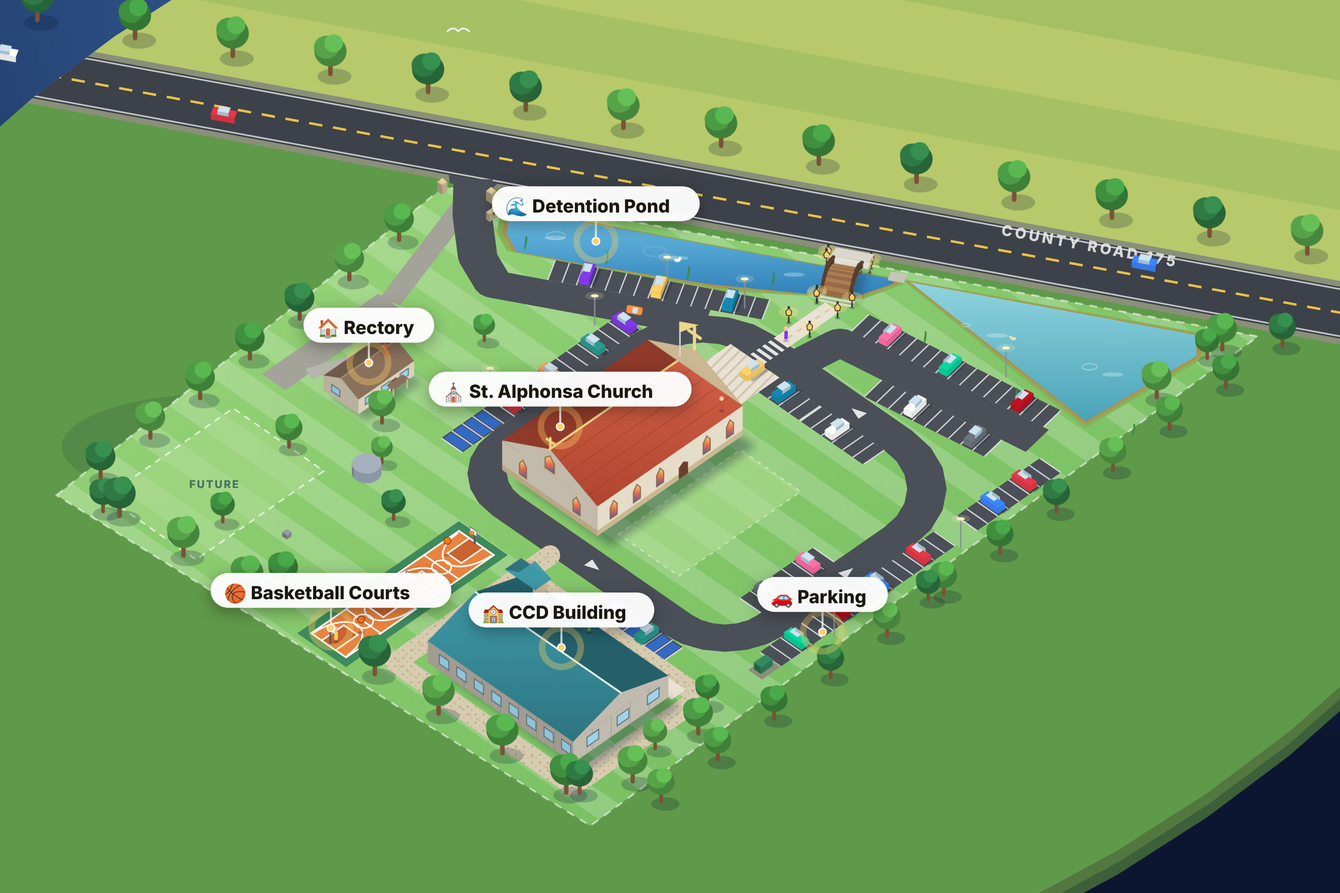
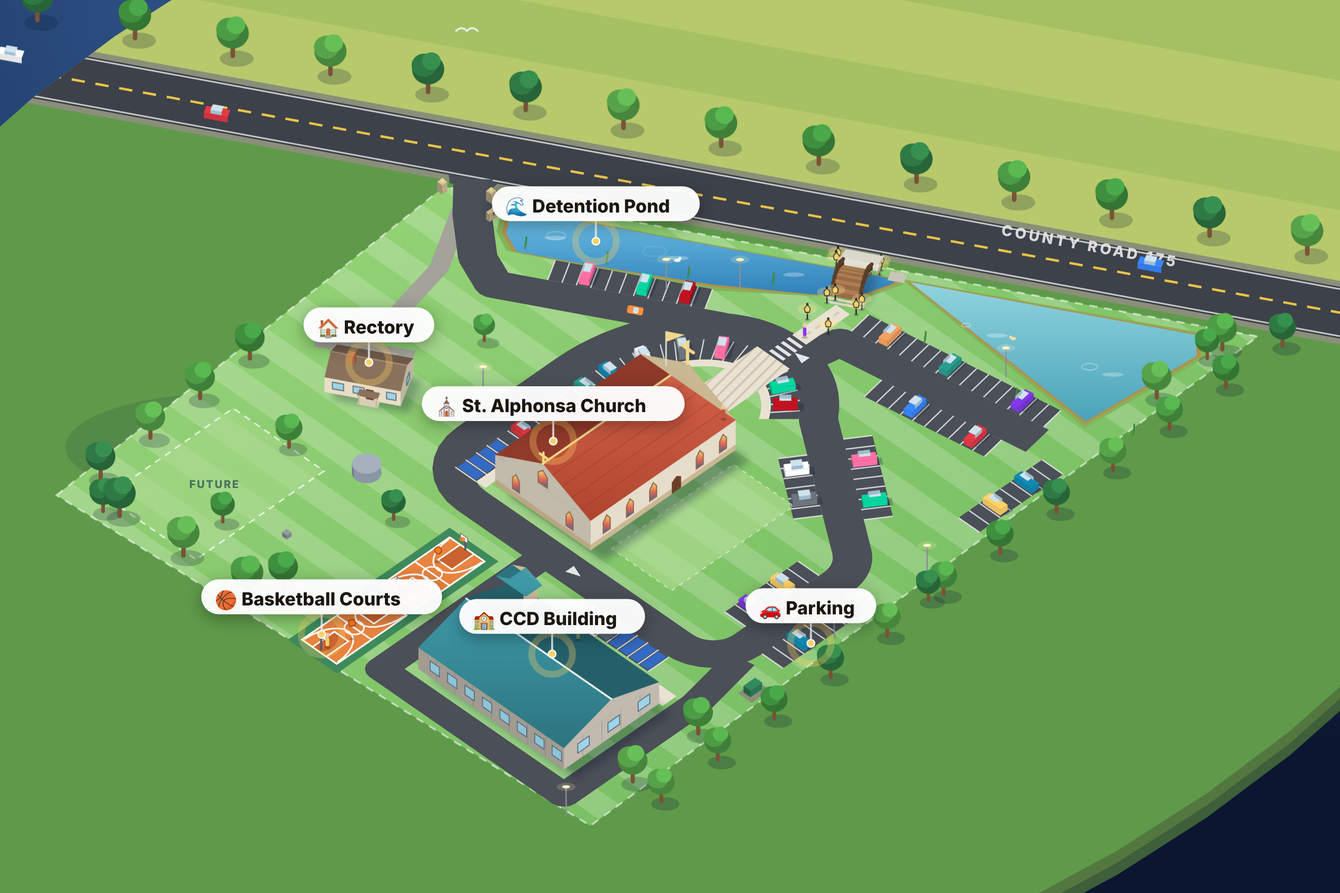
Match the loop, rectory and CCD drive to the site plan
- Loop drive ends in a half-ellipse in front of the church with radial stalls and a sidewalk ring
- Diagonal leg back to the south-east corner with stalls inside and outside
- Rectory turned parallel to County Road 175, with the existing drive and turnaround
- Paved loop round the CCD building that ties back into the church loop (no gravel)

Claude-Session: https://claude.ai/code/session_01ETi8ScE64g863fdLpxkmu7

diff --git a/church-website/assets/js/iso-map.js b/church-website/assets/js/iso-map.js
@@ -27,49 +27,61 @@ window.IsoMap = (function () {
   const off = (p, k) => [p[0] + n[0] * k, p[1] + n[1] * k];
   const along = (p, k) => [p[0] + d[0] * k, p[1] + d[1] * k];
   const tk = (t, k) => off(r(t), k);
+  const add2 = (p, q) => [p[0] + q[0], p[1] + q[1]];
   const kOf = p => (p[0] - SITE.N[0]) * n[0] + (p[1] - SITE.N[1]) * n[1];
   const tOf = p => ((p[0] - SITE.N[0]) * d[0] + (p[1] - SITE.N[1]) * d[1]) / RL;
 
-  const cc = M(624, 579);
+  const cc = add2(M(624, 579), [-12, 6]);
   const CHURCH = { x0: cc[0] - 62.5, y0: cc[1] - 41, x1: cc[0] + 62.5, y1: cc[1] + 41, h: 22, rh: 18 };          // 125 x 82, front faces the road
-  const cd = M(387, 852);
+  const cd = add2(M(387, 852), [-8, 0]);
   const CCD = { x0: cd[0] - 41, y0: cd[1] - 62.5, x1: cd[0] + 41, y1: cd[1] + 62.5, h: 16, rh: 12 };             // 82 x 125, at right angles to the church
-  const c1 = M(257, 684), c2 = M(367, 638), cyc = (c1[1] + c2[1]) / 2;
+  const c1 = add2(M(257, 684), [-8, 0]), c2 = add2(M(367, 638), [-8, 0]), cyc = (c1[1] + c2[1]) / 2;
   const COURTS = [{ x0: c1[0] - 30, y0: cyc - 15, x1: c1[0] + 30, y1: cyc + 15 }, { x0: c2[0] - 30, y0: cyc - 15, x1: c2[0] + 30, y1: cyc + 15 }];
-  const rc = M(435, 355);
-  const RECTORY = { x0: rc[0] - 24, y0: rc[1] - 15, x1: rc[0] + 24, y1: rc[1] + 15, h: 11, rh: 7 };            // existing residence, near the north boundary
-  const hh = M(430, 280);
-  const HAMMERHEAD = { x0: hh[0] - 50, y0: hh[1] - 10, x1: hh[0] + 50, y1: hh[1] + 10 };                        // existing paved drive / fire truck turnaround
-  const LOOP = { x0: 207, y0: 190, x1: 416, y1: 418, w: 24, r: [50, 60, 40, 40] };   // loop drive centreline bounds; corner radii NE, SE, SW, NW (rounded east end as drawn)
+  // Existing residence (the rectory): long axis parallel to County Road 175, reached by the existing drive and its turnaround
+  const RECTORY = { c: tk(0, 178), u: d, hl: 24, hw: 15, h: 11, rh: 7 };
+  RECTORY.x0 = RECTORY.c[0] - 30; RECTORY.x1 = RECTORY.c[0] + 30; RECTORY.y0 = RECTORY.c[1] - 30; RECTORY.y1 = RECTORY.c[1] + 30;
+  const EX_DRIVE = [tk(.03, 12), tk(.03, 70), tk(-.02, 150)];
+  const HAMMER = [tk(-.08, 150), tk(.04, 150)];                                                             // fire truck turnaround by the house
+  // Loop drive: straight west, top and bottom legs, a half-ellipse around the front of the church, and a diagonal leg back to the south-east corner
+  const LOOP = { x0: 195, y0: 172, y1: 420, xc: 320, yc: 253, rx: 106, ry: 81, aEnd: 45 * Math.PI / 180, se: [318, 420], w: 24 };
+  LOOP.x1 = LOOP.xc + LOOP.rx;
   const HW = LOOP.w / 2;
   const STALL = 9, DEPTH = 18;
   const unit = v => { const L = Math.hypot(v[0], v[1]); return [v[0] / L, v[1] / L]; };
+  const add = (p, v, k) => [p[0] + v[0] * k, p[1] + v[1] * k];
+  const LOOP_CL = (() => {
+    const vs = [{ p: [LOOP.x0, LOOP.y0], r: 40 }];
+    const arc = ellipseArc(LOOP.xc, LOOP.yc, LOOP.rx, LOOP.ry, -Math.PI / 2, LOOP.aEnd, 30);
+    arc.forEach((q, i) => vs.push({ p: q, r: i === arc.length - 1 ? 30 : 0 }));
+    vs.push({ p: LOOP.se, r: 30 }); vs.push({ p: [LOOP.x0, LOOP.y1], r: 30 });
+    return fillet(vs, 8);
+  })();
+  const DG = (() => { const a = [LOOP.xc + Math.cos(LOOP.aEnd) * LOOP.rx, LOOP.yc + Math.sin(LOOP.aEnd) * LOOP.ry]; const u = unit([LOOP.se[0] - a[0], LOOP.se[1] - a[1]]); return { a, u, nin: [-u[1], u[0]] }; })();
   const EA = { o: [452, 272], u: unit([0.16, 0.987]), len: 148 };                        // east aisle from the loop down to the south-east field
   const EAp = [-EA.u[1], EA.u[0]];                                                        // its normal (points west)
-  const add = (p, v, k) => [p[0] + v[0] * k, p[1] + v[1] * k];
   // Parking rows as drawn: o = start of the row on the aisle edge, u = direction along the row, side = which way the stalls extend (+1 = left of u, -1 = right of u)
   const ROWS = [
-    { o: [221, LOOP.y0 - HW], u: [1, 0], side: -1, n: 17, ada: [0, 1, 2, 3] },        // top row along the church (4 ADA + regular; 19 regular in the plan)
-    { o: [LOOP.x1 - HW, 240], u: [0, 1], side: 1, n: 7, ada: [] },                     // 7 inside the rounded east end
-    { o: [LOOP.x1 - HW, 304], u: [0, 1], side: 1, n: 6, ada: [] },                     // 6 inside the east leg
-    { o: [250, LOOP.y1 - HW], u: [1, 0], side: -1, n: 7, ada: [] },                    // 7 inside the south leg
+    { o: [209, LOOP.y0 + HW], u: [1, 0], side: 1, n: 12, ada: [0, 1, 2, 3] },          // top row facing the church (4 ADA + regular; continues round the curve)
+    { o: [235, LOOP.y1 - HW], u: [1, 0], side: -1, n: 7, ada: [] },                    // 7 inside the south leg
     { o: [225, LOOP.y1 + HW], u: [1, 0], side: 1, n: 8, ada: [] },                     // 8 outside the south leg
-    { o: [303, LOOP.y1 + HW], u: [1, 0], side: 1, n: 8, ada: [] },                     // 8 outside the south leg
     { o: [LOOP.x0 - HW, 331], u: [0, 1], side: 1, n: 7, ada: [0, 1, 2, 3, 4, 5, 6] },  // 7 ADA by the CCD
-    { o: tk(.16, 63), u: d, side: -1, n: 15, ada: [] },                                // along the pond (16 in the plan)
+    { o: tk(.16, 63), u: d, side: -1, n: 11, ada: [] },                                // along the pond (16 in the plan)
     { o: add(add(EA.o, EA.u, 40), EAp, 12), u: EA.u, side: 1, n: 10, ada: [] },        // 10 between the loop and the east aisle
     { o: add(EA.o, EAp, -12), u: EA.u, side: -1, n: 16, ada: [] },                     // 16 along the east aisle, by the basin
-    { o: [394, LOOP.y1 + HW], u: [1, 0], side: 1, n: 8, ada: [] }                      // 9 at the south-east boundary
+    { o: [394, LOOP.y1 + HW], u: [1, 0], side: 1, n: 8, ada: [] },                     // 9 at the south-east boundary
+    { o: add(add(DG.a, DG.u, 30), DG.nin, HW), u: DG.u, side: 1, n: 6, ada: [] },      // 6 inside the diagonal leg
+    { o: add(add(DG.a, DG.u, 20), DG.nin, -HW), u: DG.u, side: -1, n: 8, ada: [] }     // 8 outside the diagonal leg
   ];
   ROWS.forEach(rw => { rw.u = unit(rw.u); rw.v = rw.side > 0 ? [-rw.u[1], rw.u[0]] : [rw.u[1], -rw.u[0]]; });
-  const ENTRY_DRIVE = [tk(.03, -11), tk(.045, 20), tk(.07, 55), tk(.1, 75), tk(.36, 75)];                                  // gate at the north corner, along the pond, into the loop's rounded end
+  const ARC_STALLS = [[-90, -12], [12, 45]];                                              // degree ranges of radial stalls round the curve (gap = entry plaza)
+  const ENTRY_DRIVE = [tk(.03, -11), tk(.045, 20), tk(.07, 55), tk(.1, 75), tk(.38, 75)];                                  // gate at the north corner, along the pond, into the loop's curve
   const EAST_AISLE = [[LOOP.x1 - 4, 266], EA.o, add(EA.o, EA.u, EA.len)];                                                   // aisle to the south-east field
+  const CCD_LOOP = [[LOOP.x0 - HW + 2, CCD.y0 - 16], [CCD.x0 - 16, CCD.y0 - 16], [CCD.x0 - 16, CCD.y1 + 16], [CCD.x1 + 16, CCD.y1 + 16], [LOOP.x0 + 18, LOOP.y1 + 6]];   // paved loop round the CCD, back into the church loop
   const POND = [tk(.085, 8), tk(.56, 8), tk(.56, 12), tk(.52, 30), tk(.47, 34), tk(.35, 42), tk(.2, 44), tk(.11, 44), tk(.09, 30)];
   const BASIN = [tk(.575, 8), tk(.93, 8), tk(.94, 26), tk(.84, 100)];                                                        // filtration basin for water quality
-  const PED = { t: 0.5, w: 9 };                                                                                             // walkers' entrance at the centre of the frontage, on the church axis
+  const PED = { t: 0.512, w: 9 };                                                                                           // walkers' entrance at the centre of the frontage, on the church axis
   const SEPTIC = [[CHURCH.x0 + 10, CHURCH.y1 + 8], [CHURCH.x1 - 10, CHURCH.y1 + 8], [CHURCH.x1 - 10, CHURCH.y1 + 60], [CHURCH.x0 + 10, CHURCH.y1 + 60]];
   const FUTURE = [[40, 52], [150, 52], [150, 130], [40, 130]];                                                                // reserved for future construction (to confirm)
-  const GRAVEL = [[CCD.x1 + 14, CCD.y0 - 14], [CCD.x0 - 14, CCD.y0 - 14], [CCD.x0 - 14, CCD.y1 + 14], [CCD.x1 + 14, CCD.y1 + 14], [CCD.x1 + 14, CCD.y0 - 14], [LOOP.x0 - HW, CCD.y0 - 14]];
   const WELL = M(245, 523), TANK = M(367, 477);
 
   /* ---------------- helpers ---------------- */
@@ -80,6 +92,46 @@ window.IsoMap = (function () {
     const corners = [[x1 - R[0], y0 + R[0], -Math.PI / 2, 0, R[0]], [x1 - R[1], y1 - R[1], 0, Math.PI / 2, R[1]], [x0 + R[2], y1 - R[2], Math.PI / 2, Math.PI, R[2]], [x0 + R[3], y0 + R[3], Math.PI, Math.PI * 1.5, R[3]]];
     corners.forEach(([cx, cy, a0, a1, rr]) => { for (let i = 0; i <= seg; i++) { const a = a0 + (a1 - a0) * i / seg; out.push([cx + Math.cos(a) * rr, cy + Math.sin(a) * rr]); } });
     return out;
+  }
+  function ellipseArc(cx, cy, rx, ry, a0, a1, seg) { const out = []; for (let i = 0; i <= seg; i++) { const a = a0 + (a1 - a0) * i / seg; out.push([cx + Math.cos(a) * rx, cy + Math.sin(a) * ry]); } return out; }
+  // Round the corners of a closed polyline: verts = [{p, r}], r = 0 keeps the vertex sharp
+  function fillet(verts, seg) {
+    const out = [], n = verts.length;
+    for (let i = 0; i < n; i++) {
+      const A = verts[(i - 1 + n) % n].p, B = verts[i].p, C = verts[(i + 1) % n].p, r = verts[i].r;
+      if (!r) { out.push(B); continue; }
+      const d1 = unit([B[0] - A[0], B[1] - A[1]]), d2 = unit([C[0] - B[0], C[1] - B[1]]);
+      const theta = Math.acos(Math.max(-1, Math.min(1, d1[0] * d2[0] + d1[1] * d2[1])));
+      if (theta < 0.02) { out.push(B); continue; }
+      const t = r * Math.tan(theta / 2), p1 = [B[0] - d1[0] * t, B[1] - d1[1] * t], p2 = [B[0] + d2[0] * t, B[1] + d2[1] * t];
+      const cross = d1[0] * d2[1] - d1[1] * d2[0], nrm = cross > 0 ? [-d1[1], d1[0]] : [d1[1], -d1[0]];
+      const c = [p1[0] + nrm[0] * r, p1[1] + nrm[1] * r];
+      const a0 = Math.atan2(p1[1] - c[1], p1[0] - c[0]), a1 = Math.atan2(p2[1] - c[1], p2[0] - c[0]);
+      let da = a1 - a0; while (da > Math.PI) da -= 2 * Math.PI; while (da < -Math.PI) da += 2 * Math.PI;
+      for (let k = 0; k <= seg; k++) { const a = a0 + da * k / seg; out.push([c[0] + Math.cos(a) * r, c[1] + Math.sin(a) * r]); }
+    }
+    return out;
+  }
+  // Offset a closed polygon (clockwise on screen) inward by k (negative = outward)
+  function offsetPoly(poly, k) {
+    const n = poly.length, out = [];
+    for (let i = 0; i < n; i++) {
+      const A = poly[(i - 1 + n) % n], B = poly[i], C = poly[(i + 1) % n];
+      const d1 = unit([B[0] - A[0], B[1] - A[1]]), d2 = unit([C[0] - B[0], C[1] - B[1]]);
+      const n1 = [-d1[1], d1[0]], n2 = [-d2[1], d2[0]];
+      let m = [n1[0] + n2[0], n1[1] + n2[1]]; const L = Math.hypot(m[0], m[1]) || 1; m = [m[0] / L, m[1] / L];
+      const sc = k / Math.max(0.5, m[0] * n1[0] + m[1] * n1[1]);
+      out.push([B[0] + m[0] * sc, B[1] + m[1] * sc]);
+    }
+    return out;
+  }
+  // A box in any orientation: u = its long axis; draws the faces that look toward the camera, then the top
+  function rotBox(g, cx, cy, u, hl, hw, z0, h, col) {
+    const v = [-u[1], u[0]], q = (a, b, z) => [cx + u[0] * a + v[0] * b, cy + u[1] * a + v[1] * b, z];
+    [[q(-hl, -hw, z0), q(hl, -hw, z0), [-v[0], -v[1]]], [q(hl, -hw, z0), q(hl, hw, z0), u], [q(hl, hw, z0), q(-hl, hw, z0), v], [q(-hl, hw, z0), q(-hl, -hw, z0), [-u[0], -u[1]]]].forEach(([a, b, nrm]) => {
+      const f = -nrm[0] + nrm[1]; if (f <= 0.05) return; poly(g, [a, b, [b[0], b[1], z0 + h], [a[0], a[1], z0 + h]], { fill: shade(col, .72 + .2 * f) });
+    });
+    poly(g, [q(-hl, -hw, z0 + h), q(hl, -hw, z0 + h), q(hl, hw, z0 + h), q(-hl, hw, z0 + h)], { fill: shade(col, 1.08) });
   }
   function ellipsePts(cx, cy, rx, ry, seg, z) { const out = []; for (let i = 0; i < (seg || 24); i++) { const a = i / (seg || 24) * Math.PI * 2; out.push([cx + Math.cos(a) * rx, cy + Math.sin(a) * ry, z || 0]); } return out; }
   function poly(parent, points3d, attrs) { const p = S('polygon', Object.assign({ points: pts(points3d) }, attrs || {})); parent.append(p); return p; }
@@ -149,7 +201,7 @@ window.IsoMap = (function () {
     ['terrain', 'ground', 'objects', 'tags', 'fx', 'dim', 'lift'].forEach(k => layers[k] = S('g', { id: 'L-' + k }, world));
     itemParts = { church: [], ccd: [], courts: [], parking: [], pond: [], rectory: [] };
 
-    drawTerrain(); drawRoad(); drawLawn(); drawWater(); drawExistingDrive(); drawDrives(); drawParking(); drawGravel(); drawCourts(); drawZones(); drawWalks();
+    drawTerrain(); drawRoad(); drawLawn(); drawWater(); drawExistingDrive(); drawDrives(); drawParking(); drawCourts(); drawZones(); drawWalks();
     const objs = [];
     objs.push({ depth: depthOf(CHURCH), node: drawChurch() });
     objs.push({ depth: depthOf(CCD), node: drawCcd() });
@@ -181,7 +233,7 @@ window.IsoMap = (function () {
     }
     return g;
   }
-  function loopRing(inset) { return roundedRect(LOOP.x0 + inset, LOOP.y0 + inset, LOOP.x1 - inset, LOOP.y1 - inset, LOOP.r.map(x => Math.max(4, x - inset))); }
+  function loopRing(inset) { return offsetPoly(LOOP_CL, inset); }
 
   /* ---------------- ground ---------------- */
   function drawTerrain() {
@@ -232,23 +284,26 @@ window.IsoMap = (function () {
   }
   function drawExistingDrive() {
     const g = layers.ground;
-    band(g, [tk(.03, 14), [HAMMERHEAD.x1, (HAMMERHEAD.y0 + HAMMERHEAD.y1) / 2]], 7, '#a3a39a');
-    poly(g, [[HAMMERHEAD.x0, HAMMERHEAD.y0], [HAMMERHEAD.x1, HAMMERHEAD.y0], [HAMMERHEAD.x1, HAMMERHEAD.y1], [HAMMERHEAD.x0, HAMMERHEAD.y1]], { fill: '#a3a39a' });
-    band(g, [[HAMMERHEAD.x0 + 20, HAMMERHEAD.y1], [RECTORY.x1 - 8, RECTORY.y0 - 2]], 5, '#b5b5ad');   // short drive to the house
+    band(g, EX_DRIVE, 6, '#a3a39a');
+    band(g, HAMMER, 6, '#a3a39a');
+    const B = RECTORY, v = [-B.u[1], B.u[0]];
+    band(g, [add(add(B.c, B.u, 6), v, -B.hw - 1), add(add(B.c, B.u, 6), v, -B.hw - 14)], 4, '#b5b5ad');   // path from the turnaround to the door
   }
   function drawDrives() {
     const g = S('g', { 'data-item': 'parking', class: 'item' }, layers.ground); itemParts.parking.push(g);
     S('path', { d: pathFromLoops([loopRing(-HW), loopRing(HW)]), fill: '#4b4f57', 'fill-rule': 'evenodd' }, g);
     band(g, ENTRY_DRIVE, HW, '#4b4f57');
     band(g, EAST_AISLE, HW, '#4b4f57');
+    band(g, CCD_LOOP, 10, '#4b4f57');
     // flared apron at the gate, and the pond culvert headwalls
     poly(g, [tk(.0, -11), tk(.06, -11), tk(.055, -4), tk(.005, -4)], { fill: '#4b4f57' });
     // centre lines and one-way arrows
-    [[LOOP.x0, (LOOP.y0 + LOOP.y1) / 2, 'S'], [(LOOP.x0 + LOOP.x1) / 2, LOOP.y1, 'E'], [LOOP.x1, (LOOP.y0 + LOOP.y1) / 2 + 20, 'N'], [(LOOP.x0 + LOOP.x1) / 2, LOOP.y0, 'W']].forEach(([x, y, dir]) => {
+    [[LOOP.x0, 300, 'S'], [265, LOOP.y1, 'E'], [LOOP.x1, LOOP.yc + 12, 'N'], [265, LOOP.y0, 'W']].forEach(([x, y, dir]) => {
       const dx = dir === 'E' ? 6 : dir === 'W' ? -6 : 0, dy = dir === 'S' ? 6 : dir === 'N' ? -6 : 0;
       poly(g, [[x + dx, y + dy], [x - dx * .6 + dy * .6, y - dy * .6 + dx * .6], [x - dx * .6 - dy * .6, y - dy * .6 - dx * .6]], { fill: '#ffffff', opacity: .85 });
     });
   }
+  let arcSpots = [];
   function drawParking() {
     const g = S('g', { 'data-item': 'parking', class: 'item' }, layers.ground); itemParts.parking.push(g);
     ROWS.forEach(rw => {
@@ -258,11 +313,18 @@ window.IsoMap = (function () {
       for (let i = 0; i <= rw.n; i++) line(g, [...at(i * STALL, 0), 0], [...at(i * STALL, DEPTH), 0], { stroke: '#e9e9e9', 'stroke-width': 1, opacity: .85 });
       rw.ada.forEach(i => poly(g, [at(i * STALL + 1, 1), at((i + 1) * STALL - 1, 1), at((i + 1) * STALL - 1, DEPTH - 1), at(i * STALL + 1, DEPTH - 1)], { fill: '#2f6fd6', opacity: .85 }));
     });
-  }
-  function drawGravel() {
-    const g = layers.ground;
-    S('polyline', { points: pts(GRAVEL), fill: 'none', stroke: 'url(#gravel)', 'stroke-width': 15, 'stroke-linejoin': 'round', 'stroke-linecap': 'round' }, g);
-    S('polyline', { points: pts(GRAVEL), fill: 'none', stroke: '#b9ab8d', 'stroke-width': 1, opacity: .6, 'stroke-dasharray': '3 4', 'stroke-linejoin': 'round' }, g);
+    // radial stalls on the inside of the curve, nose-in toward the church
+    const Ro = [LOOP.rx - HW, LOOP.ry - HW], Ri = [Ro[0] - DEPTH, Ro[1] - DEPTH], Rm = [Ro[0] - DEPTH / 2, Ro[1] - DEPTH / 2];
+    const E = (R, a) => [LOOP.xc + Math.cos(a) * R[0], LOOP.yc + Math.sin(a) * R[1]];
+    arcSpots = [];
+    ARC_STALLS.forEach(([d0, d1]) => {
+      const a0 = d0 * Math.PI / 180, a1 = d1 * Math.PI / 180;
+      poly(g, ellipseArc(LOOP.xc, LOOP.yc, Ro[0], Ro[1], a0, a1, 24).concat(ellipseArc(LOOP.xc, LOOP.yc, Ri[0], Ri[1], a1, a0, 24)), { fill: '#4b4f57' });
+      const bounds = [a0]; let acc = 0, prev = E(Ro, a0);
+      for (let a = a0; a <= a1 + 1e-6; a += (a1 - a0) / 400) { const q = E(Ro, a); acc += Math.hypot(q[0] - prev[0], q[1] - prev[1]); prev = q; if (acc >= STALL) { bounds.push(a); acc = 0; } }
+      bounds.forEach(a => line(g, [...E(Ro, a), 0], [...E(Ri, a), 0], { stroke: '#e9e9e9', 'stroke-width': 1, opacity: .85 }));
+      for (let i = 0; i + 1 < bounds.length; i++) { const a = (bounds[i] + bounds[i + 1]) / 2; arcSpots.push({ c: E(Rm, a), u: unit([Math.cos(a) / Ro[0], Math.sin(a) / Ro[1]]) }); }
+    });
   }
   function drawCourts() {
     const g = S('g', { 'data-item': 'courts', class: 'item' }, layers.ground); itemParts.courts.push(g);
@@ -292,7 +354,11 @@ window.IsoMap = (function () {
     const g = layers.ground;
     const gp = S('g', { 'data-item': 'church', class: 'item' }, g); itemParts.church.push(gp);
     const cy = (CHURCH.y0 + CHURCH.y1) / 2;
-    poly(gp, [[CHURCH.x1, cy - 21], [LOOP.x1 - HW, cy - 21], [LOOP.x1 - HW, cy + 21], [CHURCH.x1, cy + 21]], { fill: 'url(#hatch)' });     // entry plaza on the axis
+    // sidewalk ring between the nose-in stalls and the church: along the north wall and round the curve
+    const Ri = [LOOP.rx - HW - DEPTH, LOOP.ry - HW - DEPTH];
+    poly(gp, [[209, LOOP.y0 + HW + DEPTH], [LOOP.xc, LOOP.y0 + HW + DEPTH], [LOOP.xc, CHURCH.y0 - 2], [209, CHURCH.y0 - 2]], { fill: '#e9e2d3' });
+    poly(gp, ellipseArc(LOOP.xc, LOOP.yc, Ri[0], Ri[1], -Math.PI / 2, LOOP.aEnd, 30).concat(ellipseArc(LOOP.xc, LOOP.yc, Ri[0] - 6, Ri[1] - 6, LOOP.aEnd, -Math.PI / 2, 30)), { fill: '#e9e2d3' });
+    poly(gp, [[CHURCH.x1, cy - 14], [LOOP.x1 - HW, cy - 14], [LOOP.x1 - HW, cy + 14], [CHURCH.x1, cy + 14]], { fill: 'url(#hatch)' });     // entry plaza on the axis
     // walkers' promenade: from the foot of the bridge to the crosswalk over the loop and the plaza
     const E = tk(PED.t, 42);
     poly(g, [[LOOP.x1 + HW - 2, cy - 6], [E[0], cy - 6], [E[0], cy + 6], [LOOP.x1 + HW - 2, cy + 6]], { fill: '#e9e2d3' });
@@ -380,24 +446,30 @@ window.IsoMap = (function () {
   /* ---------------- objects ---------------- */
   function drawRectory() {
     const B = RECTORY, g = S('g', { 'data-item': 'rectory', class: 'item building' }, null); itemParts.rectory.push(g);
-    const foot = [[B.x0, B.y0, 0], [B.x1, B.y0, 0], [B.x1, B.y1, 0], [B.x0, B.y1, 0]];
-    const glow = S('g', { class: 'glow', filter: 'url(#glowf)' }, g); poly(glow, [[B.x0 - 8, B.y0 - 8], [B.x1 + 8, B.y0 - 8], [B.x1 + 8, B.y1 + 8], [B.x0 - 8, B.y1 + 8]], { fill: '#ffd166', opacity: .5 });
+    const u = B.u, v = [-u[1], u[0]], hl = B.hl, hw = B.hw, h = B.h, rh = B.rh;
+    const q = (a, b, z) => [B.c[0] + u[0] * a + v[0] * b, B.c[1] + u[1] * a + v[1] * b, z || 0];
+    const foot = [q(-hl, -hw), q(hl, -hw), q(hl, hw), q(-hl, hw)];
+    const glow = S('g', { class: 'glow', filter: 'url(#glowf)' }, g); poly(glow, [q(-hl - 8, -hw - 8), q(hl + 8, -hw - 8), q(hl + 8, hw + 8), q(-hl - 8, hw + 8)], { fill: '#ffd166', opacity: .5 });
     shadowFor(g, foot, 6, 5, .3);
-    const wall = '#e8dcc6', mid = (B.y0 + B.y1) / 2;
-    poly(g, [[B.x0, B.y0, 0], [B.x0, B.y1, 0], [B.x0, B.y1, B.h], [B.x0, B.y0, B.h]], { fill: shade(wall, .8) });
-    poly(g, [[B.x0, B.y1, 0], [B.x1, B.y1, 0], [B.x1, B.y1, B.h], [B.x0, B.y1, B.h]], { fill: shade(wall, .95) });
-    [[B.x0 + 6, 7], [B.x0 + 20, 7], [B.x0 + 36, 7]].forEach(([x, w]) => poly(g, [[x, B.y1, 3.5], [x + w, B.y1, 3.5], [x + w, B.y1, 8.5], [x, B.y1, 8.5]], { fill: '#9fd3e8', stroke: '#5b6f78', 'stroke-width': .7 }));
-    poly(g, [[B.x0 + 28, B.y1, 0], [B.x0 + 33, B.y1, 0], [B.x0 + 33, B.y1, 8], [B.x0 + 28, B.y1, 8]], { fill: '#6b3f2a' });
-    poly(g, [[B.x0, B.y0 + 7, 3.5], [B.x0, B.y0 + 14, 3.5], [B.x0, B.y0 + 14, 8.5], [B.x0, B.y0 + 7, 8.5]], { fill: '#8fc3d8', stroke: '#5b6f78', 'stroke-width': .7 });
-    poly(g, [[B.x0, B.y0, B.h], [B.x0, B.y1, B.h], [B.x0, mid, B.h + B.rh]], { fill: shade(wall, .8) });
-    poly(g, [[B.x0, B.y0, B.h], [B.x1, B.y0, B.h], [B.x1, mid, B.h + B.rh], [B.x0, mid, B.h + B.rh]], { fill: '#6e5a4a' });
-    poly(g, [[B.x0, mid, B.h + B.rh], [B.x1, mid, B.h + B.rh], [B.x1, B.y1, B.h], [B.x0, B.y1, B.h]], { fill: '#8a715c' });
-    line(g, [B.x0, mid, B.h + B.rh], [B.x1, mid, B.h + B.rh], { stroke: '#a28a72', 'stroke-width': 1.2, 'stroke-linecap': 'round' });
-    box(g, B.x1 - 12, mid - 2, B.x1 - 8, mid + 2, B.h + 2, 6, '#b06b4a');   // chimney
-    // porch on the south face
-    poly(g, [[B.x0 + 24, B.y1, 7], [B.x0 + 38, B.y1, 7], [B.x0 + 38, B.y1 + 6, 7], [B.x0 + 24, B.y1 + 6, 7]], { fill: '#8a715c' });
-    [[B.x0 + 25, B.y1 + 5], [B.x0 + 37, B.y1 + 5]].forEach(([x, y]) => line(g, [x, y, 0], [x, y, 7], { stroke: '#cbb995', 'stroke-width': 1.2 }));
-    addStar(g, 'rectory', [B.x1, B.y0, B.h + B.rh + 16]);
+    const wall = '#e8dcc6';
+    [[q(-hl, -hw), q(hl, -hw), [-v[0], -v[1]]], [q(hl, -hw), q(hl, hw), u], [q(hl, hw), q(-hl, hw), v], [q(-hl, hw), q(-hl, -hw), [-u[0], -u[1]]]].forEach(([a, b, nrm]) => {
+      const f = -nrm[0] + nrm[1]; if (f <= 0.05) return; poly(g, [a, b, [b[0], b[1], h], [a[0], a[1], h]], { fill: shade(wall, .76 + .18 * f) });
+    });
+    // windows and door on the wall that faces the campus, one window on the end wall
+    [[-hl + 5, 7], [-hl + 18, 7], [hl - 9, 6]].forEach(([a, w]) => poly(g, [q(a, hw, 3.5), q(a + w, hw, 3.5), q(a + w, hw, 8.5), q(a, hw, 8.5)], { fill: '#9fd3e8', stroke: '#5b6f78', 'stroke-width': .7 }));
+    poly(g, [q(hl, -6, 3.5), q(hl, 1, 3.5), q(hl, 1, 8.5), q(hl, -6, 8.5)], { fill: '#8fc3d8', stroke: '#5b6f78', 'stroke-width': .7 });
+    const da = 2; poly(g, [q(da, hw, 0), q(da + 5, hw, 0), q(da + 5, hw, 8), q(da, hw, 8)], { fill: '#6b3f2a' });
+    // gable roof along the long axis: far slope first, then the end gable, then the near slope
+    poly(g, [q(-hl, -hw, h), q(hl, -hw, h), q(hl, 0, h + rh), q(-hl, 0, h + rh)], { fill: '#6e5a4a' });
+    poly(g, [q(hl, -hw, h), q(hl, hw, h), q(hl, 0, h + rh)], { fill: shade(wall, .82) });
+    poly(g, [q(-hl, 0, h + rh), q(hl, 0, h + rh), q(hl, hw, h), q(-hl, hw, h)], { fill: '#8a715c' });
+    line(g, q(-hl, 0, h + rh), q(hl, 0, h + rh), { stroke: '#a28a72', 'stroke-width': 1.2, 'stroke-linecap': 'round' });
+    const ch = q(-hl * .45, 0, 0); rotBox(g, ch[0], ch[1], u, 2.2, 2.2, h + 2, 6, '#b06b4a');   // chimney
+    // porch over the door
+    poly(g, [q(da - 4, hw, .6), q(da + 9, hw, .6), q(da + 9, hw + 6, .6), q(da - 4, hw + 6, .6)], { fill: '#d9cdb5' });
+    poly(g, [q(da - 4, hw, 7), q(da + 9, hw, 7), q(da + 9, hw + 6, 7), q(da - 4, hw + 6, 7)], { fill: '#8a715c' });
+    [q(da - 3, hw + 5), q(da + 8, hw + 5)].forEach(p0 => line(g, [p0[0], p0[1], 0], [p0[0], p0[1], 7], { stroke: '#cbb995', 'stroke-width': 1.2 }));
+    addStar(g, 'rectory', q(hl, -hw, h + rh + 16));
     return g;
   }
   function drawCourtsObjects(objs) {
@@ -432,12 +504,17 @@ window.IsoMap = (function () {
   }
   function drawParkedCars(objs) {
     const cols = ['#e63946', '#f4a261', '#2a9d8f', '#8338ec', '#ffd166', '#118ab2', '#ffffff', '#6c757d', '#ff70a6', '#06d6a0', '#c1121f', '#3a86ff'];
-    const spots = [[0, 5], [0, 9], [0, 13], [0, 16], [1, 1], [1, 4], [2, 2], [3, 1], [3, 5], [4, 2], [4, 6], [5, 1], [5, 5], [6, 1], [6, 4], [7, 2], [7, 7], [7, 12], [8, 3], [8, 8], [9, 2], [9, 7], [9, 13], [10, 2], [10, 5]];
+    const spots = [[0, 5], [0, 8], [0, 11], [1, 1], [1, 4], [2, 2], [2, 6], [3, 2], [4, 2], [4, 6], [4, 9], [5, 3], [5, 8], [6, 2], [6, 7], [6, 13], [7, 2], [7, 5], [8, 1], [8, 4], [9, 2], [9, 6]];
     spots.forEach(([ri, si], k) => {
       const rw = ROWS[ri]; if (si >= rw.n) return;
       const c = add(add(rw.o, rw.u, (si + .5) * STALL), rw.v, DEPTH / 2);
       const g = carAt(c[0], c[1], rw.v, cols[k % cols.length], { 'data-item': 'parking', class: 'item' });
       itemParts.parking.push(g); objs.push({ depth: c[1] - c[0], node: g });
+    });
+    [1, 4, 7, 10, 13, 15].forEach((i, k) => {
+      const sp = arcSpots[i]; if (!sp) return;
+      const g = carAt(sp.c[0], sp.c[1], sp.u, cols[(k + 5) % cols.length], { 'data-item': 'parking', class: 'item' });
+      itemParts.parking.push(g); objs.push({ depth: sp.c[1] - sp.c[0], node: g });
     });
   }
   function drawGate(objs) {
@@ -457,7 +534,7 @@ window.IsoMap = (function () {
     objs.push({ depth: sgn[1] - sgn[0], node: g3 });
   }
   function drawPoles(objs) {
-    [[LOOP.x0 + 60, LOOP.y0 - 34], [LOOP.x0 + 150, LOOP.y0 - 34], [LOOP.x0 + 60, LOOP.y1 + 34], [LOOP.x1 - 40, LOOP.y1 + 34], [LOOP.x1 + 16, LOOP.y0 + 20], [add(add(EA.o, EA.u, 100), EAp, -34)[0], add(add(EA.o, EA.u, 100), EAp, -34)[1]], [tk(.3, 50)[0], tk(.3, 50)[1]]].forEach(([x, y]) => {
+    [[LOOP.x0 + 70, LOOP.y0 - 20], [LOOP.x0 + 70, LOOP.y1 + 34], [LOOP.x0 + 150, LOOP.y1 + 34], [LOOP.x1 + 16, LOOP.y0 + 24], [add(add(EA.o, EA.u, 100), EAp, -34)[0], add(add(EA.o, EA.u, 100), EAp, -34)[1]], [tk(.3, 52)[0], tk(.3, 52)[1]], [CCD.x0 - 28, CCD.y1 + 30]].forEach(([x, y]) => {
       const g = S('g', {}, null);
       line(g, [x, y, 0], [x, y, 22], { stroke: '#8a8f99', 'stroke-width': 1 });
       const t = P(x, y, 22); S('ellipse', { cx: t[0], cy: t[1], rx: 3, ry: 1.2, fill: '#fff3c4' }, g);
@@ -466,7 +543,7 @@ window.IsoMap = (function () {
     });
   }
   function drawDumpster(objs) {
-    const g = S('g', {}, null); const x = LOOP.x0 + 2, y = LOOP.y1 + HW + 6;
+    const g = S('g', {}, null); const x = LOOP.x0 - 5, y = LOOP.y1 + HW + 14;
     poly(g, [[x, y], [x + 16, y], [x + 16, y + 12], [x, y + 12]], { fill: '#8a8f7a' });
     box(g, x + 3, y + 2, x + 13, y + 8, 0, 5, '#2f7f5a');
     objs.push({ depth: (y + 6) - (x + 8), node: g });
@@ -485,17 +562,15 @@ window.IsoMap = (function () {
   const inRect = (p, R, m) => p[0] > R.x0 - m && p[0] < R.x1 + m && p[1] > R.y0 - m && p[1] < R.y1 + m;
   const inPoly = (p, poly) => { let c = false; for (let i = 0, j = poly.length - 1; i < poly.length; j = i++) { const a = poly[i], b = poly[j]; if ((a[1] > p[1]) !== (b[1] > p[1]) && p[0] < (b[0] - a[0]) * (p[1] - a[1]) / (b[1] - a[1]) + a[0]) c = !c; } return c; };
   function treeOk(p) {
-    if (inRect(p, CHURCH, 10) || inRect(p, CCD, 10) || inRect(p, RECTORY, 8) || inRect(p, HAMMERHEAD, 6)) return false;
+    if (inRect(p, CHURCH, 10) || inRect(p, CCD, 30) || inRect(p, RECTORY, 4)) return false;
     if (inRect(p, { x0: COURTS[0].x0, y0: COURTS[0].y0, x1: COURTS[1].x1, y1: COURTS[1].y1 }, 10)) return false;
     if (inRect(p, { x0: LOOP.x0 - HW - DEPTH, y0: LOOP.y0 - HW - DEPTH, x1: LOOP.x1 + HW, y1: LOOP.y1 + HW + DEPTH }, 5)) return false;
     if (inRect(p, { x0: LOOP.x1 - 10, y0: 230, x1: 520, y1: LOOP.y1 + HW + DEPTH }, 5)) return false;     // east aisle and its rows
     const t = tOf(p), k = kOf(p);
     if (t > .0 && t < .6 && k > -12 && k < 92) return false;                                                // pond, pond row, entry drive, bridge walk
-    if (inPoly(p, BASIN) || inPoly(p, GRAVEL.concat([])) ) return false;
+    if (inPoly(p, BASIN)) return false;
+    if (t > -.12 && t < .07 && k > 6 && k < 200) return false;                                               // existing drive, turnaround and the house
     if (inRect(p, { x0: FUTURE[0][0] + 20, y0: FUTURE[0][1] + 18, x1: FUTURE[1][0] - 20, y1: FUTURE[2][1] - 18 }, 0)) return false;   // keep the label readable
-    const ex = tk(.03, 14), hh = [HAMMERHEAD.x1, (HAMMERHEAD.y0 + HAMMERHEAD.y1) / 2];                      // existing drive
-    const dx = hh[0] - ex[0], dy = hh[1] - ex[1], L2 = dx * dx + dy * dy, s0 = Math.max(0, Math.min(1, ((p[0] - ex[0]) * dx + (p[1] - ex[1]) * dy) / L2));
-    if (Math.hypot(p[0] - ex[0] - dx * s0, p[1] - ex[1] - dy * s0) < 12) return false;
     return true;
   }
   function drawTrees(objs) {
@@ -609,7 +684,7 @@ window.IsoMap = (function () {
     courts: () => P(COURTS[0].x0 + 6, cyc - 4, 34),
     parking: () => P(LOOP.x0 + 60, LOOP.y1 + 24, 24),
     pond: () => { const c = tk(.2, 26); return P(c[0], c[1], 30); },
-    rectory: () => P((RECTORY.x0 + RECTORY.x1) / 2, RECTORY.y0 + 15, RECTORY.h + RECTORY.rh + 24)
+    rectory: () => P(RECTORY.c[0], RECTORY.c[1], RECTORY.h + RECTORY.rh + 24)
   };
   function drawTags() {
     window.DATA.items.forEach((it, i) => {
